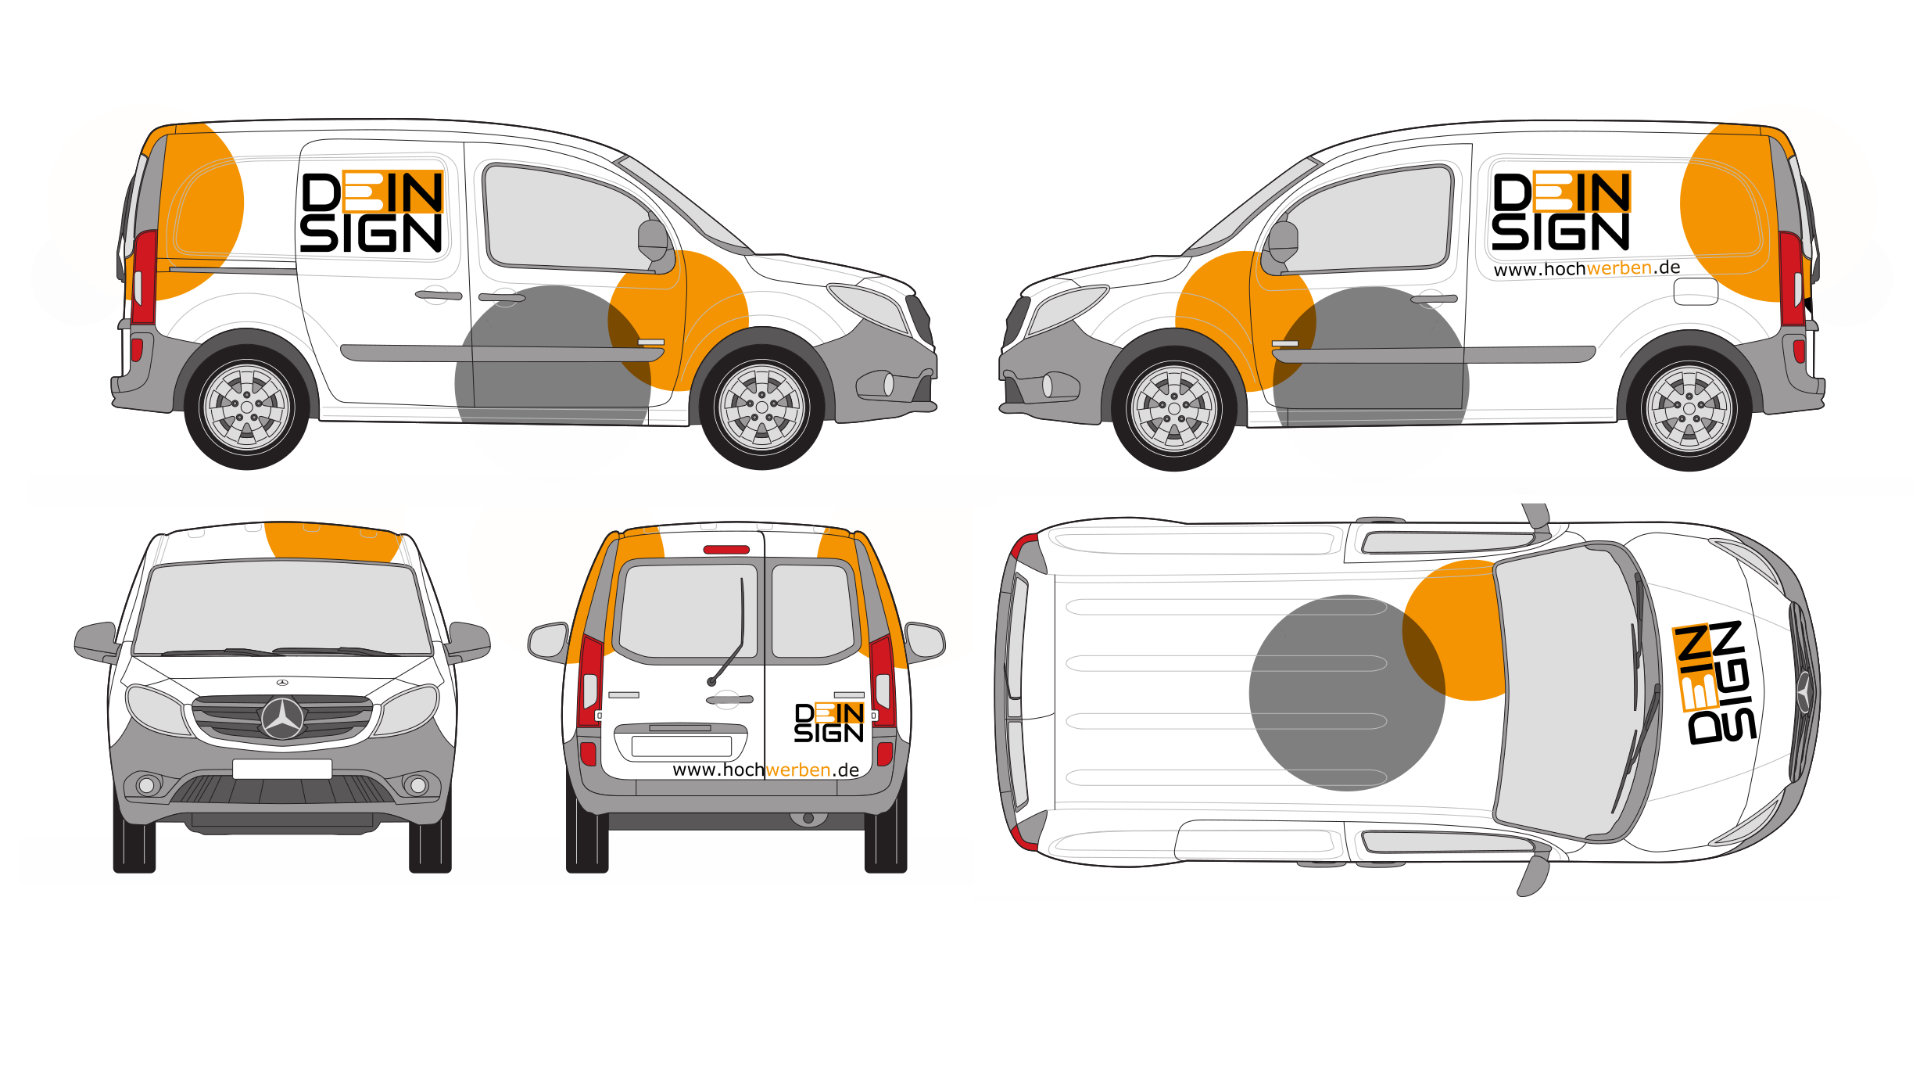
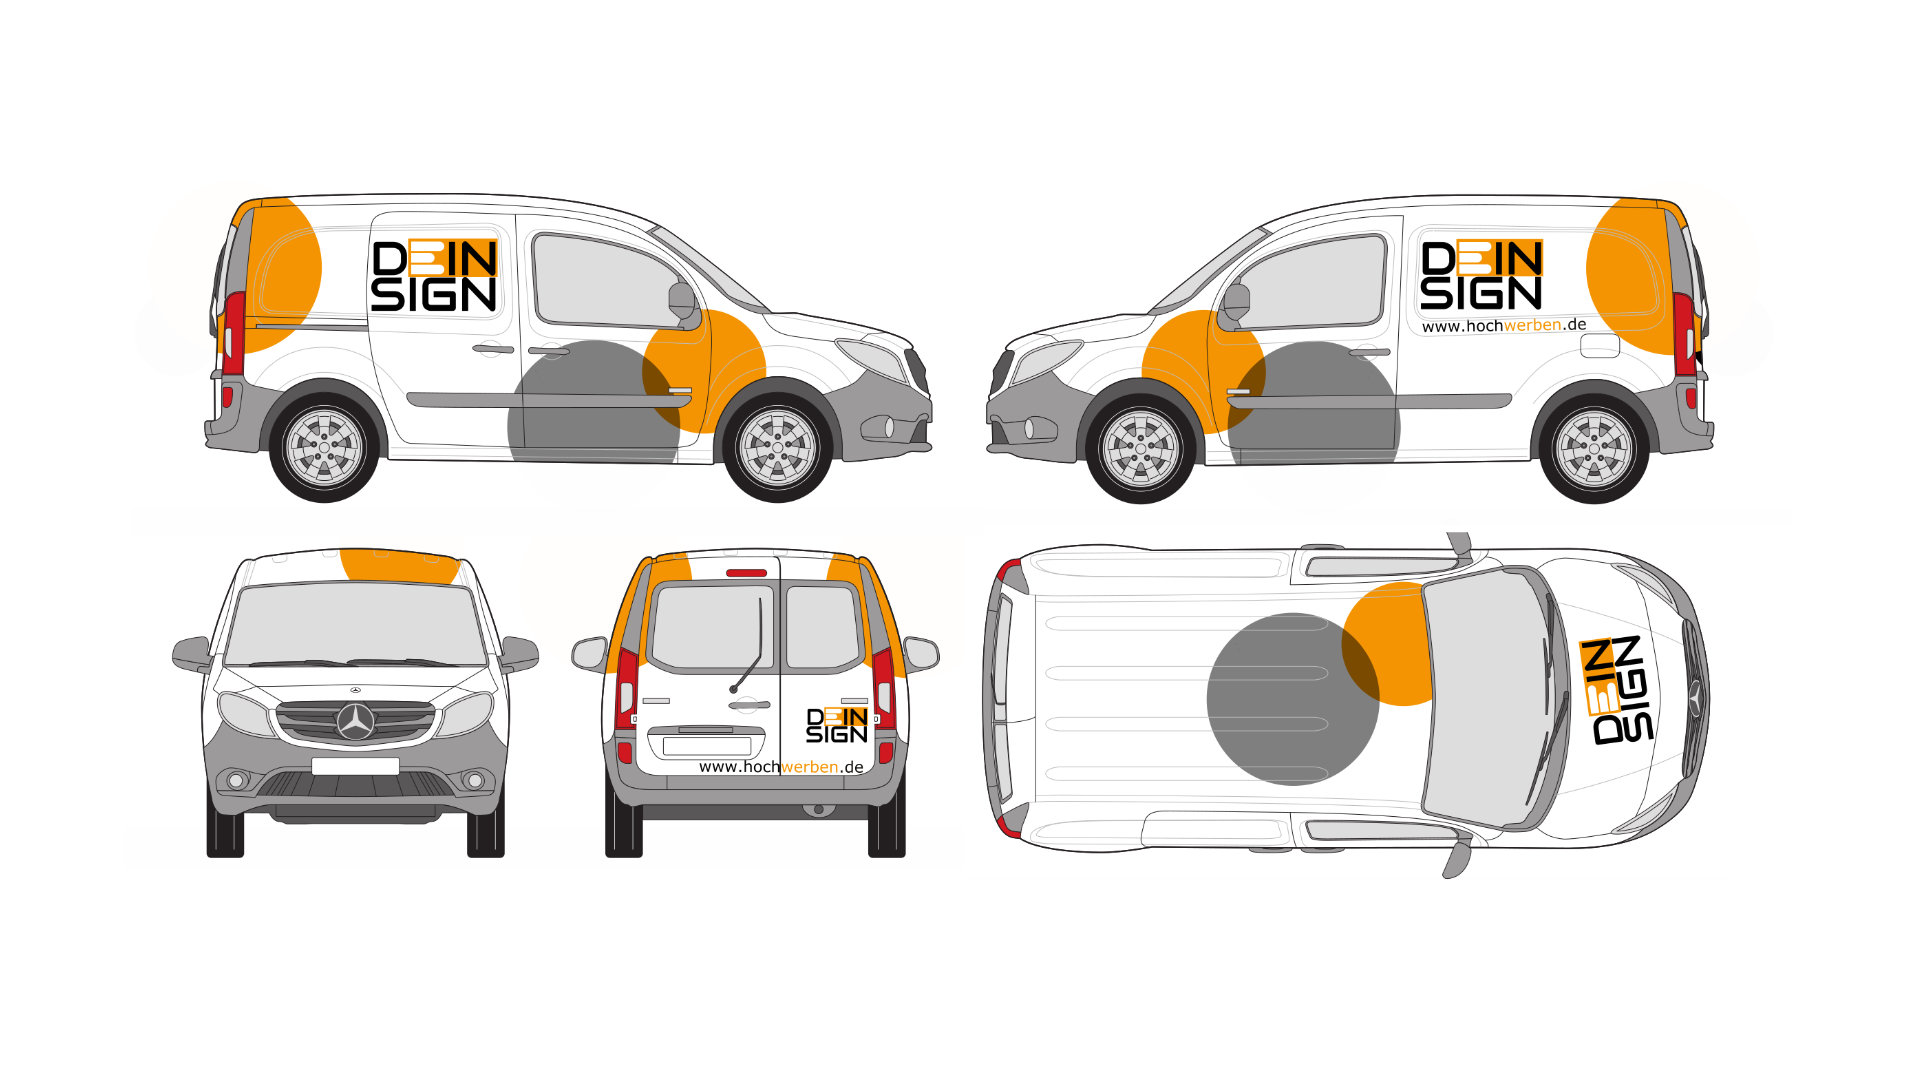
change transporter images

diff --git a/src/components/Leistung/TransporterBeschriftung/CardKompakt.js b/src/components/Leistung/TransporterBeschriftung/CardKompakt.js
@@ -6,9 +6,9 @@ import styles from '../cards.module.css';
 const Card = () => {
   const data = useStaticQuery(graphql`
     {
-      file(relativePath: { eq: "dd/card-kompakt.jpg" }) {
+      file(relativePath: { eq: "dd/transporter-beschriftung-kompakt.jpg" }) {
         childImageSharp {
-          fluid(maxWidth: 600) {
+          fluid(quality: 95, maxWidth: 600) {
             ...GatsbyImageSharpFluid
           }
         }

diff --git a/src/components/Leistung/TransporterBeschriftung/CardKomplex.js b/src/components/Leistung/TransporterBeschriftung/CardKomplex.js
@@ -6,9 +6,9 @@ import styles from '../cards.module.css';
 const Card = () => {
   const data = useStaticQuery(graphql`
   {
-    file(relativePath: { eq: "dd/card-komplex.jpg" }) {
+    file(relativePath: { eq: "dd/transporter-beschriftung-komplex.jpg" }) {
       childImageSharp {
-        fluid(maxWidth: 600) {
+        fluid(quality: 95, maxWidth: 600) {
           ...GatsbyImageSharpFluid
         }
       }

diff --git a/src/components/Leistung/TransporterBeschriftung/CardModerat.js b/src/components/Leistung/TransporterBeschriftung/CardModerat.js
@@ -6,9 +6,9 @@ import styles from '../cards.module.css';
 const Card = () => {
   const data = useStaticQuery(graphql`
   {
-    file(relativePath: { eq: "dd/card-moderat.jpg" }) {
+    file(relativePath: { eq: "dd/transporter-beschriftung-moderat.jpg" }) {
       childImageSharp {
-        fluid(maxWidth: 600) {
+        fluid(quality: 95, maxWidth: 600) {
           ...GatsbyImageSharpFluid
         }
       }
